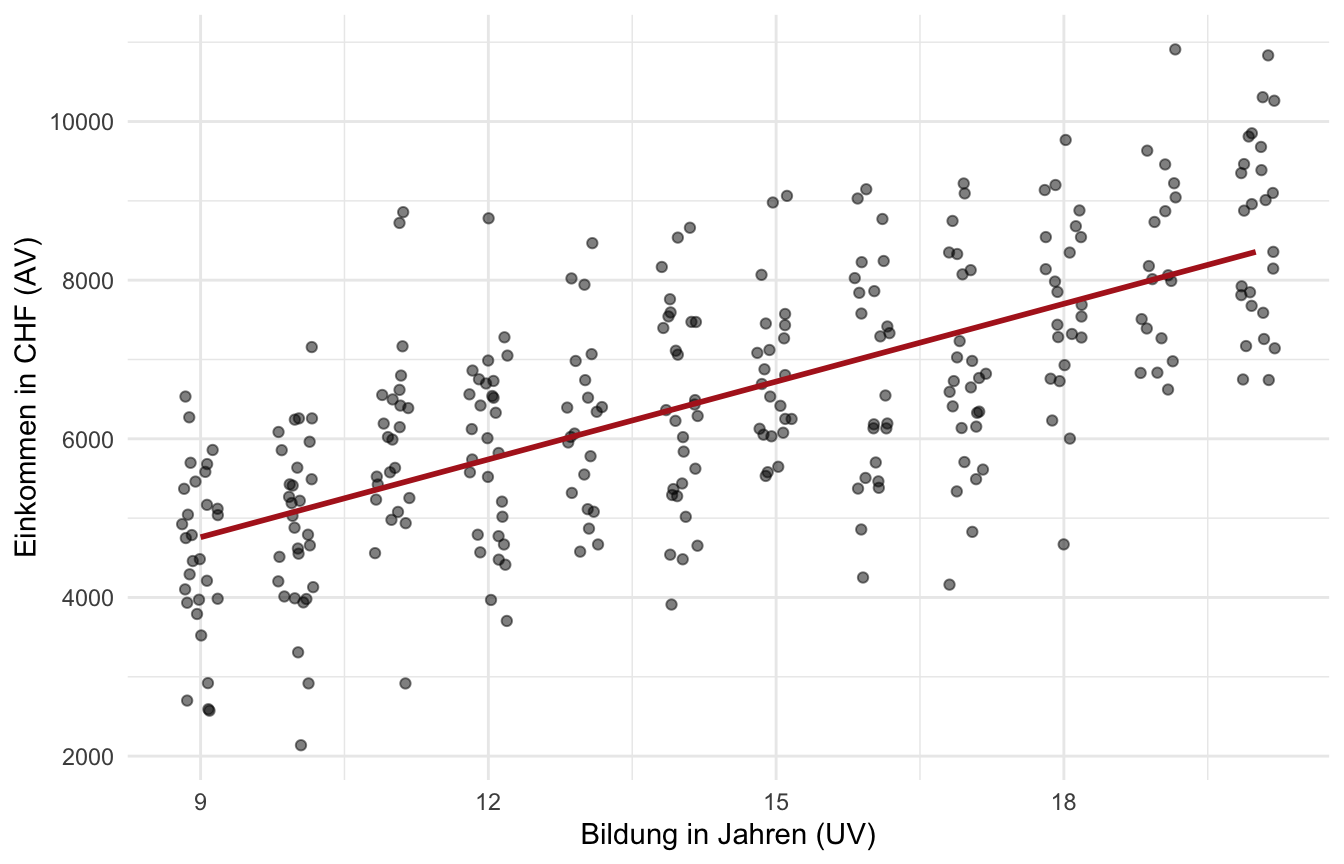
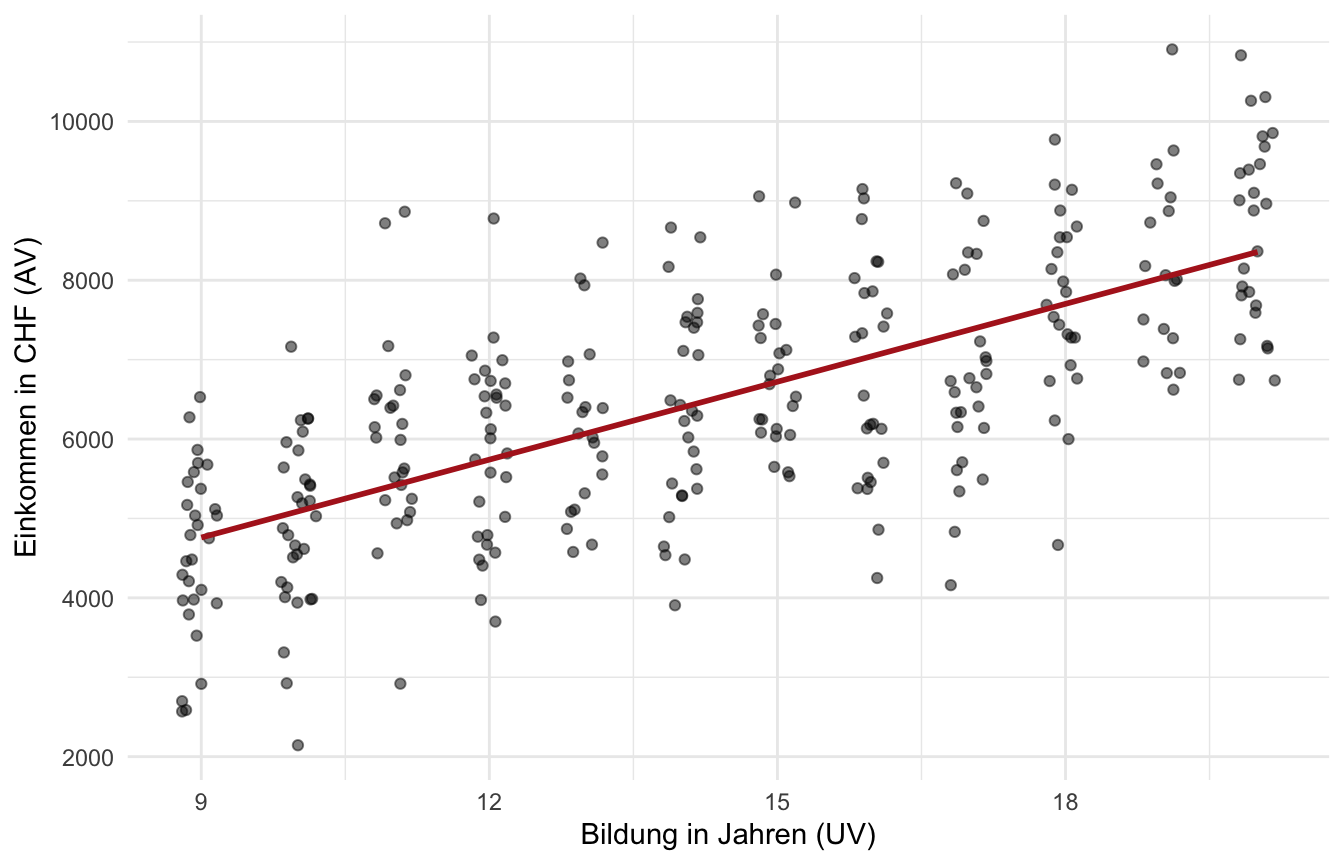
titel angepasst

diff --git a/docs/index.html b/docs/index.html
@@ -7,7 +7,7 @@
 <meta name="viewport" content="width=device-width, initial-scale=1.0, user-scalable=yes">
 
 
-<title>Webseite Test Github Pages – Bivariate Regression – Begleitmaterial (Test)</title>
+<title>Webseite Test Github Pages – Testwebseite Buchprojekt</title>
 <style>
 /* Default styles provided by pandoc.
 ** See https://pandoc.org/MANUAL.html#variables-for-html for config info.
@@ -120,7 +120,7 @@ pre > code.sourceCode > span > a:first-child::before { text-decoration: underlin
       <div class="navbar-container container-fluid">
       <div class="navbar-brand-container mx-auto">
     <a class="navbar-brand" href="./index.html">
-    <span class="navbar-title">Bivariate Regression – Begleitmaterial (Test)</span>
+    <span class="navbar-title">Testwebseite Buchprojekt</span>
     </a>
   </div>
             <div id="quarto-search" class="" title="Suchen"></div>

diff --git a/docs/01_Beispielanwendungen/zufriedenheit_alter.html b/docs/01_Beispielanwendungen/zufriedenheit_alter.html
@@ -7,7 +7,7 @@
 <meta name="viewport" content="width=device-width, initial-scale=1.0, user-scalable=yes">
 
 
-<title>Fiktives Beispiel 2: Alter und Lebenszufriedenheit – Bivariate Regression – Begleitmaterial (Test)</title>
+<title>Fiktives Beispiel 2: Alter und Lebenszufriedenheit – Testwebseite Buchprojekt</title>
 <style>
 /* Default styles provided by pandoc.
 ** See https://pandoc.org/MANUAL.html#variables-for-html for config info.
@@ -140,7 +140,7 @@ div.csl-indent {
       <div class="navbar-container container-fluid">
       <div class="navbar-brand-container mx-auto">
     <a class="navbar-brand" href="../index.html">
-    <span class="navbar-title">Bivariate Regression – Begleitmaterial (Test)</span>
+    <span class="navbar-title">Testwebseite Buchprojekt</span>
     </a>
   </div>
             <div id="quarto-search" class="" title="Suchen"></div>

diff --git a/docs/01_Beispielanwendungen/einkommen_bildung.html b/docs/01_Beispielanwendungen/einkommen_bildung.html
@@ -7,7 +7,7 @@
 <meta name="viewport" content="width=device-width, initial-scale=1.0, user-scalable=yes">
 
 
-<title>Fiktives Beispiel 1: Bildung und Einkommen – Bivariate Regression – Begleitmaterial (Test)</title>
+<title>Fiktives Beispiel 1: Bildung und Einkommen – Testwebseite Buchprojekt</title>
 <style>
 /* Default styles provided by pandoc.
 ** See https://pandoc.org/MANUAL.html#variables-for-html for config info.
@@ -140,7 +140,7 @@ div.csl-indent {
       <div class="navbar-container container-fluid">
       <div class="navbar-brand-container mx-auto">
     <a class="navbar-brand" href="../index.html">
-    <span class="navbar-title">Bivariate Regression – Begleitmaterial (Test)</span>
+    <span class="navbar-title">Testwebseite Buchprojekt</span>
     </a>
   </div>
             <div id="quarto-search" class="" title="Suchen"></div>

diff --git a/docs/02_Illustrationen/simulationen.html b/docs/02_Illustrationen/simulationen.html
@@ -7,7 +7,7 @@
 <meta name="viewport" content="width=device-width, initial-scale=1.0, user-scalable=yes">
 
 
-<title>Simulierte Zusammenhänge – Bivariate Regression – Begleitmaterial (Test)</title>
+<title>Simulierte Zusammenhänge – Testwebseite Buchprojekt</title>
 <style>
 /* Default styles provided by pandoc.
 ** See https://pandoc.org/MANUAL.html#variables-for-html for config info.
@@ -140,7 +140,7 @@ div.csl-indent {
       <div class="navbar-container container-fluid">
       <div class="navbar-brand-container mx-auto">
     <a class="navbar-brand" href="../index.html">
-    <span class="navbar-title">Bivariate Regression – Begleitmaterial (Test)</span>
+    <span class="navbar-title">Testwebseite Buchprojekt</span>
     </a>
   </div>
             <div id="quarto-search" class="" title="Suchen"></div>
